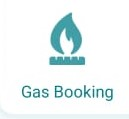
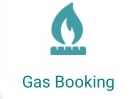
Some minor bugs fixed

Changed region(s): [[0.155, 0.697, 0.8992, 0.9394], [0.3721, 0.0, 0.6822, 0.5758]]

diff --git a/style.css b/style.css
@@ -143,9 +143,19 @@ nav {
   width: 23rem;
 }
 
-.card {
-  margin-right: 30px;
+card {
+  position: relative;
+  display: flex;
+  flex-direction: column;
+  min-width: 0;
+  word-wrap: break-word;
+  background-color: #fff;
+  background-clip: border-box;
+  border: 1px solid rgba(0,0,0,.125);
+  border-radius: 0.25rem;
+  margin-left: 22px!important;
 }
+
 
 .card_rows {
   margin-left: 13rem !important;
@@ -183,7 +193,6 @@ nav {
 .S_h2 {
   color: white;
   font-size: 8rem;
-  margin-top: -65px;
 }
 
 .iconHW {

diff --git a/index.html b/index.html
@@ -58,7 +58,7 @@
       </div>
     </div>
 
-    <div class="icons">
+    <div class="icons container container-fluid">
       <img
         src="./images/mobile recharge.jpg"
         class="iconHW"
